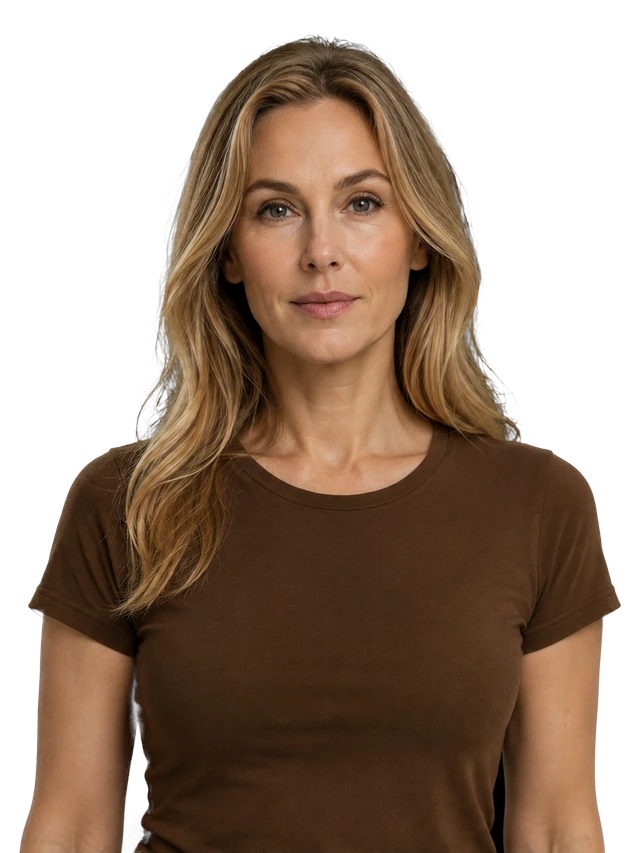
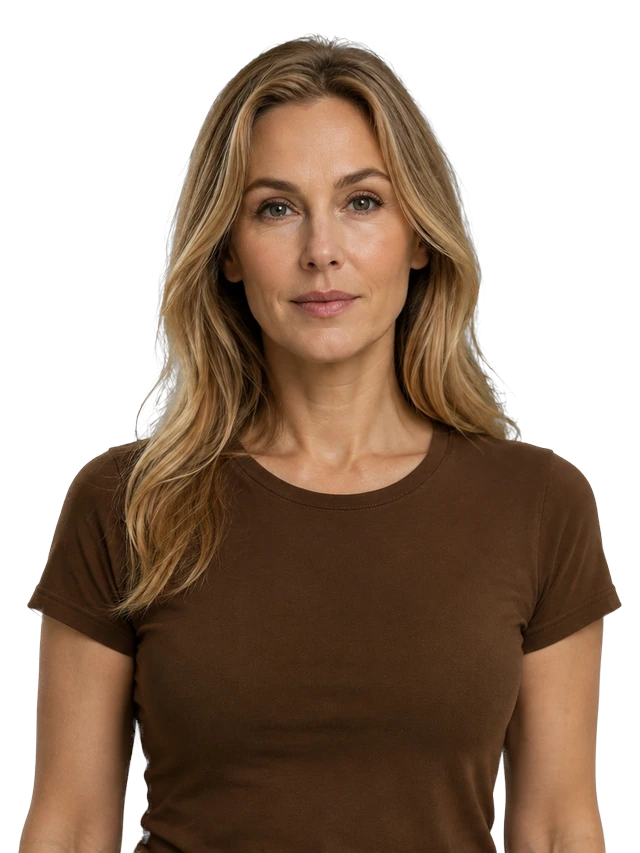
Troca o modelo de recorte para birefnet-portrait
Tinha chegado no limite de mexer em parametro do isnet. Antes de trocar de
modelo tentei calcular o alfa pela fisica do fundo preto (C = alfa x cor, entao
alfa sai por divisao) — no papel e exato, na pratica deu franja escura pior que
o que ja havia. Descartado.

O que mudou de patamar foi o modelo. birefnet-portrait e treinado em pessoa e
resolve cabelo melhor que isnet: comparei os tres ampliados na coroa, que e onde
o problema aparecia, e ele preserva a silhueta inteira com fio individual em vez
de contorno duro.

Mesmo peso de antes (292 KB nas quatro), porque o tamanho e a qualidade nao
mudaram — 640px e qualidade 92, com a reducao pre-multiplicada.

diff --git a/quiz/v2/index.html b/quiz/v2/index.html
@@ -56,7 +56,7 @@
   <link rel="preconnect" href="https://fonts.googleapis.com"/>
   <link rel="preconnect" href="https://fonts.gstatic.com" crossorigin/>
   <link rel="preload" as="style" href="https://fonts.googleapis.com/css2?family=Inter:wght@400;500;600;700;800;900&display=swap"/>
-  <link rel="stylesheet" href="quiz-warm.css?v=187"/>
+  <link rel="stylesheet" href="quiz-warm.css?v=188"/>
 </head>
 <body>
 
